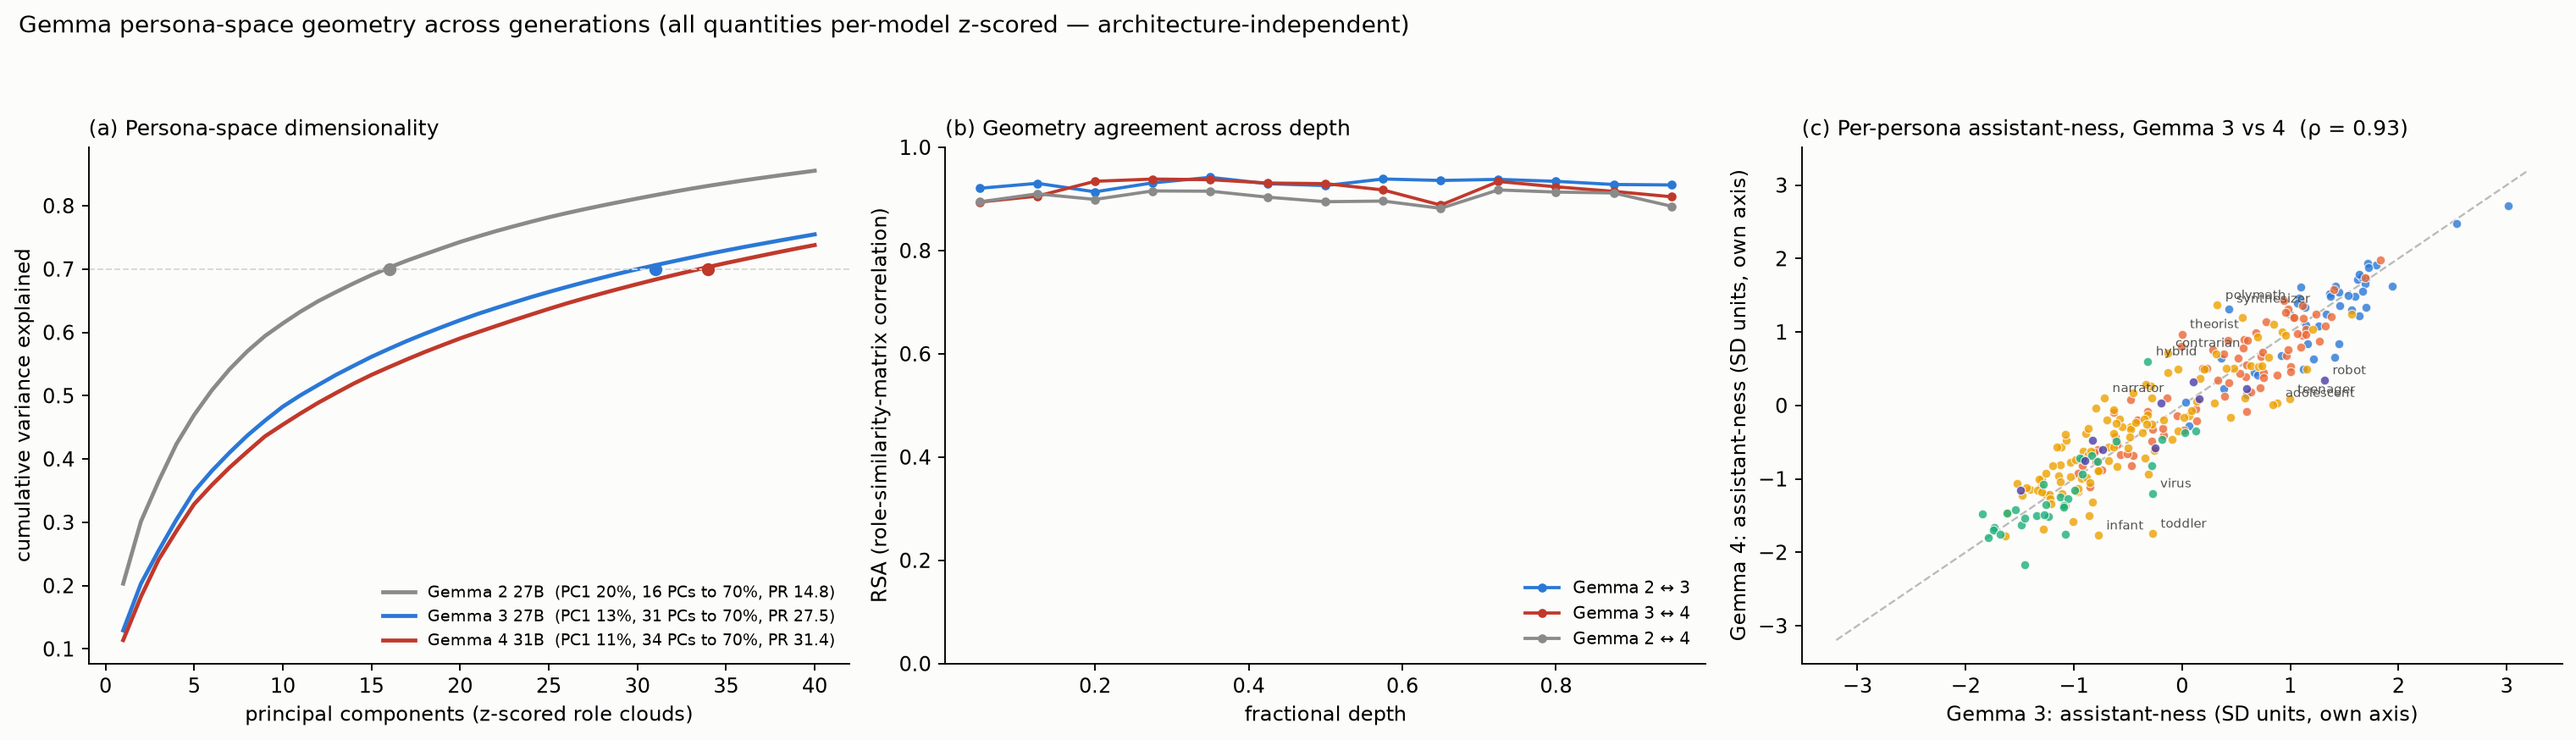
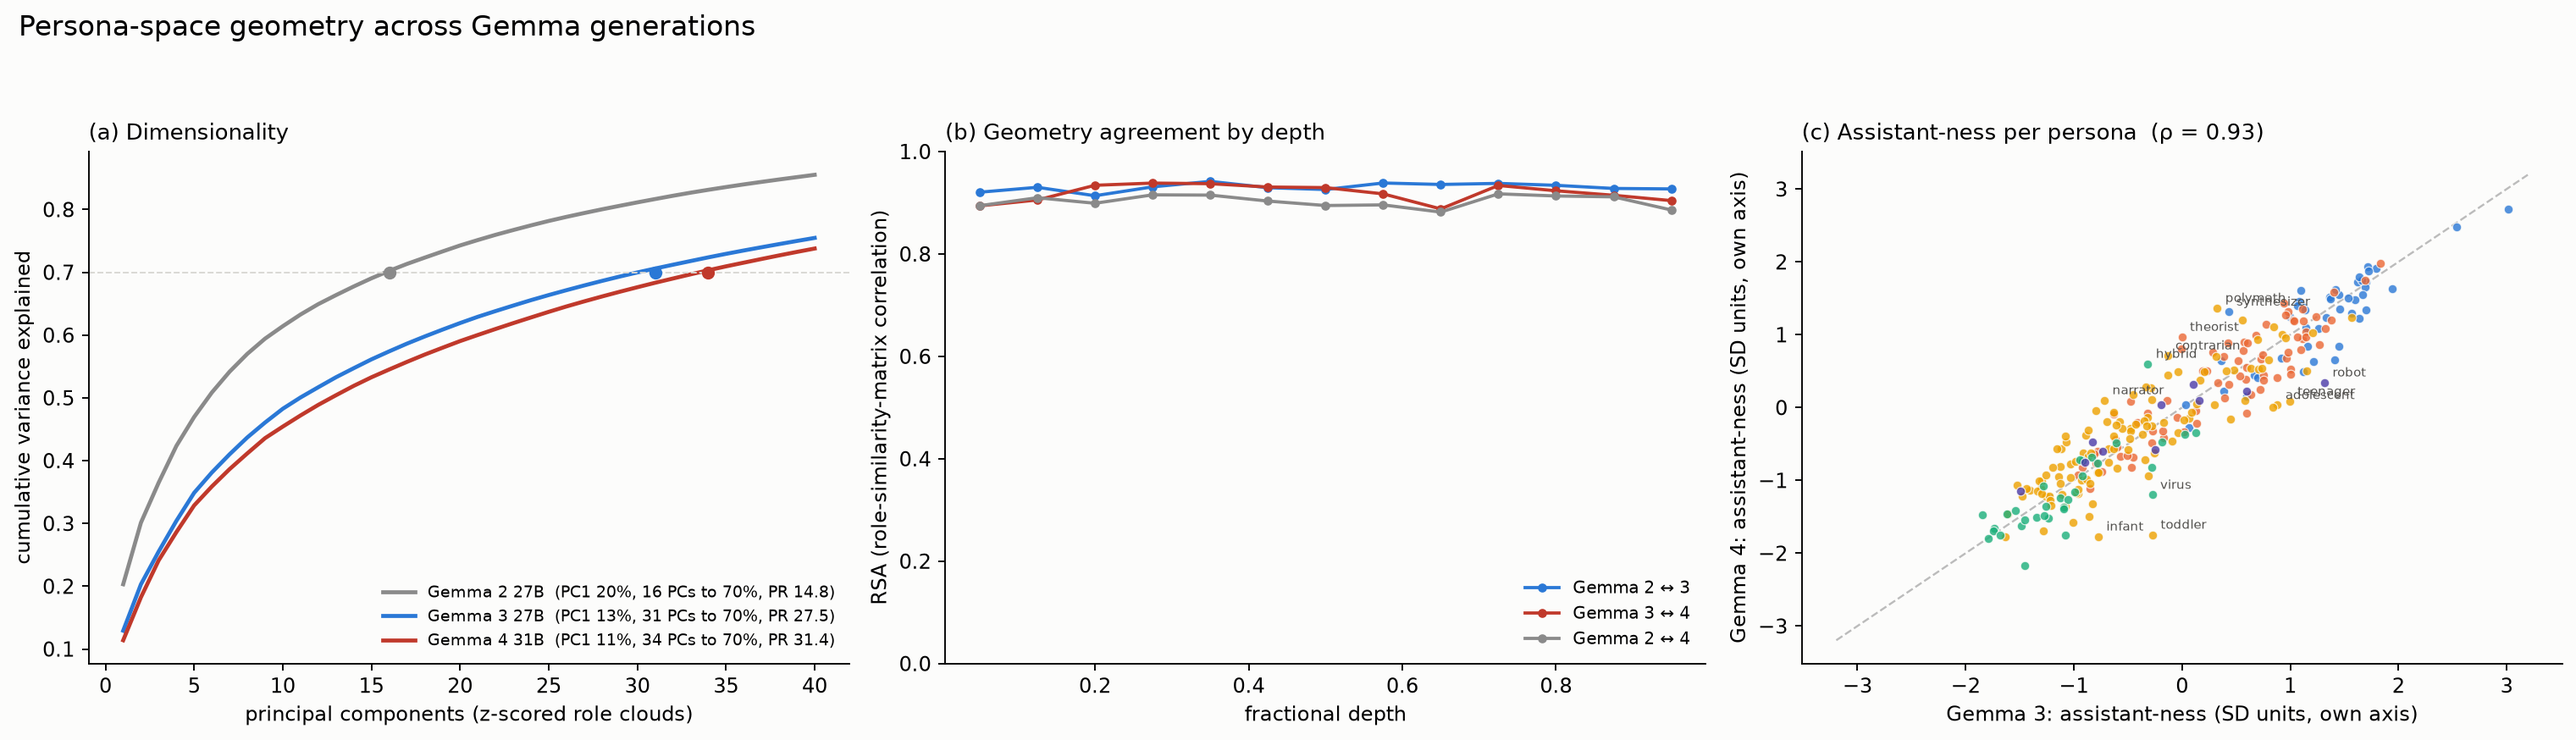
Simpler figure titles; correct default-vs-assistant-role wording (default at 44th/50th pct, assistant role rank 121/93 of 275)

diff --git a/scripts/gemma_generations_analysis.py b/scripts/gemma_generations_analysis.py
@@ -245,10 +245,9 @@ def main():
         P = M[f"{a}->{b}"]
         ax.set_xlabel("PC2 of the aligned union", fontsize=10)
         ax.set_ylabel("PC1 of the aligned union  →  more assistant-like", fontsize=10)
-        ax.set_title(f"({'ab'[row]}) {LABEL[a]} ● → {LABEL[b]} ◇  (optimal alignment of top-{args.k} PC scores)\n"
-                     f"Procrustes disparity {P['procrustes_disparity']:.2f} — {P['procrustes_disparity']:.0%} of layout variance is "
-                     f"generation-specific;  RSA {P['rsa']:.2f}, axis-ordering ρ {P['axis_ordering_spearman']:.2f}",
-                     fontsize=10, loc="left")
+        ax.set_title(f"({'ab'[row]}) {LABEL[a]} ● → {LABEL[b]} ◇\n"
+                     f"{P['procrustes_disparity']:.0%} of the persona layout changed",
+                     fontsize=11, loc="left")
         ax2 = axes[row][1]; ax2.set_facecolor("#fcfcfb")
         show = list(order[::-1][:20]) + [None] + list(order[:6][::-1])
         y = 0; ys, labels, colsb, vals = [], [], [], []
@@ -263,15 +262,13 @@ def main():
         ax2.axvline(M[f"{a}->{b}"]["default_resid"], color="#c0392b", lw=1.2, ls=":")
         ax2.text(M[f"{a}->{b}"]["default_resid"], ys[-1] - 1.6, " default persona", fontsize=8, color="#c0392b")
         ax2.set_xlabel("residual displacement after alignment", fontsize=9)
-        ax2.set_title(f"({'cd'[row]}) Most / least moved personas, {LABEL[a].split()[1]}→{LABEL[b].split()[1]}", fontsize=10, loc="left")
+        ax2.set_title(f"({'cd'[row]}) Most and least moved personas", fontsize=11, loc="left")
     for ax in axes.ravel():
         for sp in ("top", "right"):
             ax.spines[sp].set_visible(False)
     handles = [Line2D([0], [0], marker="o", color="w", markerfacecolor=c, markersize=8, label=cat) for cat, c in COLORS.items()]
     fig.legend(handles=handles, loc="lower center", ncol=5, frameon=False, fontsize=9, bbox_to_anchor=(0.5, -0.005))
-    fig.suptitle("How much did personas move between Gemma generations? (different architectures — compared after per-model\n"
-                 "z-scoring, top-k PCA and optimal rotation; arrows are lower bounds on relative persona movement)",
-                 fontsize=12.5, x=0.01, ha="left")
+    fig.suptitle("Persona movement between Gemma generations", fontsize=14, x=0.01, ha="left")
     fig.tight_layout(rect=(0, 0.015, 1, 0.95))
     fig.savefig(figdir / "gemma_persona_movement.png", dpi=170, bbox_inches="tight", facecolor=fig.get_facecolor())
     plt.close(fig)
@@ -289,13 +286,13 @@ def main():
         ax.scatter([M[f"{k}_zPCA"]["n_pcs_70"]], [0.70], color=colors3[k], zorder=5, s=30)
     ax.axhline(0.70, color="#d9d8d3", lw=0.8, ls="--")
     ax.set(xlabel="principal components (z-scored role clouds)", ylabel="cumulative variance explained")
-    ax.set_title("(a) Persona-space dimensionality", fontsize=10.5, loc="left")
+    ax.set_title("(a) Dimensionality", fontsize=11, loc="left")
     ax.legend(fontsize=8, frameon=False, loc="lower right")
 
     for key, col, lab in [("g2->g3", "#2a78d6", "Gemma 2 ↔ 3"), ("g3->g4", "#c0392b", "Gemma 3 ↔ 4"), ("g2->g4", "#8a8a8a", "Gemma 2 ↔ 4")]:
         ax2.plot(M["rsa_by_depth"]["depths"], M["rsa_by_depth"][key], marker="o", ms=3.5, color=col, lw=1.6, label=lab)
     ax2.set(xlabel="fractional depth", ylabel="RSA (role-similarity-matrix correlation)", ylim=(0, 1))
-    ax2.set_title("(b) Geometry agreement across depth", fontsize=10.5, loc="left")
+    ax2.set_title("(b) Geometry agreement by depth", fontsize=11, loc="left")
     ax2.legend(fontsize=8.5, frameon=False, loc="lower right")
 
     x3, y3 = spec["g3"]["proj_z"], spec["g4"]["proj_z"]
@@ -309,12 +306,11 @@ def main():
         ax3.annotate(shared[i], (x3[i], y3[i]), xytext=(4, 3), textcoords="offset points", fontsize=6.5, color="#52514e")
     rho = M["g3->g4"]["axis_ordering_spearman"]
     ax3.set(xlabel="Gemma 3: assistant-ness (SD units, own axis)", ylabel="Gemma 4: assistant-ness (SD units, own axis)")
-    ax3.set_title(f"(c) Per-persona assistant-ness, Gemma 3 vs 4  (ρ = {rho:.2f})", fontsize=10.5, loc="left")
+    ax3.set_title(f"(c) Assistant-ness per persona  (ρ = {rho:.2f})", fontsize=11, loc="left")
     for a_ in (ax, ax2, ax3):
         for sp in ("top", "right"):
             a_.spines[sp].set_visible(False)
-    fig.suptitle("Gemma persona-space geometry across generations (all quantities per-model z-scored — architecture-independent)",
-                 fontsize=12, x=0.01, ha="left")
+    fig.suptitle("Persona-space geometry across Gemma generations", fontsize=14, x=0.01, ha="left")
     fig.tight_layout(rect=(0, 0, 1, 0.93))
     fig.savefig(figdir / "gemma_geometry_dimensionality.png", dpi=170, bbox_inches="tight", facecolor=fig.get_facecolor())
     plt.close(fig)
@@ -339,7 +335,7 @@ def main():
             ax.annotate(sroles[i], (xs[i], ys_[i]), xytext=(4, -8), textcoords="offset points", fontsize=6.5, color="#52514e")
         ax.set_xlabel("Gemma 3: fraction fully role-playing (judge score 3)", fontsize=9.5)
         ax.set_ylabel("Gemma 4: fraction fully role-playing", fontsize=9.5)
-        ax.set_title("(a) Full role-play rate per persona — below the diagonal =\nGemma 4 more resistant to inhabiting that persona", fontsize=10, loc="left")
+        ax.set_title("(a) Full role-play rate per persona", fontsize=11, loc="left")
         handles = [Line2D([0], [0], marker="o", color="w", markerfacecolor=c, markersize=8, label=cat) for cat, c in COLORS.items()]
         handles.append(Line2D([0], [0], marker="o", color="w", markerfacecolor="none", markeredgecolor="#c0392b", markersize=9, label="malevolent subset"))
         ax.legend(handles=handles, loc="upper left", frameon=False, fontsize=8)
@@ -356,12 +352,11 @@ def main():
             ax2.text(rel[k_] * 100 + off, len(cat_order) - 1 - k_, f"{rel[k_]:+.0%}", va="center",
                      ha="right" if rel[k_] < 0 else "left", fontsize=9)
         ax2.set_xlabel("relative change in full-role-play rate, Gemma 4 vs 3 (%)", fontsize=9.5)
-        ax2.set_title(f"(b) Role-play willingness by category\n(overall score-3 rate: {M['overall_score3']['g3']:.1%} → {M['overall_score3']['g4']:.1%})", fontsize=10, loc="left")
+        ax2.set_title(f"(b) Change by category  (overall: {M['overall_score3']['g3']:.0%} → {M['overall_score3']['g4']:.0%})", fontsize=11, loc="left")
         for a_ in (ax, ax2):
             for sp in ("top", "right"):
                 a_.spines[sp].set_visible(False)
-        fig.suptitle("Role-play willingness: Gemma 3 vs Gemma 4 (identical protocol, judge = gpt-4.1-mini)",
-                     fontsize=12.5, x=0.01, ha="left")
+        fig.suptitle("Role-play willingness: Gemma 3 vs Gemma 4", fontsize=14, x=0.01, ha="left")
         fig.tight_layout(rect=(0, 0, 1, 0.93))
         fig.savefig(figdir / "gemma_roleplay_behavior.png", dpi=170, bbox_inches="tight", facecolor=fig.get_facecolor())
         plt.close(fig)

diff --git a/results/GEMMA_GENERATIONS.md b/results/GEMMA_GENERATIONS.md
@@ -104,9 +104,12 @@ for comparability, which gives 0.11 for the same SPP pair.)
 
 ## What moved, and what didn't (`gemma_persona_movement.png`)
 
-After optimal alignment, the **default persona moved exactly the median role's distance in both
-transitions** (residual 0.019 = median 0.019) — no generation specifically relocated the Assistant.
-The *least*-moved personas are the assistant/professional core: teacher, collaborator, consultant,
+After optimal alignment, the **default persona** (the model under neutral system prompts — a separate
+vector, not one of the 275 role vectors) **moved a typical amount in both transitions**: its residual
+sits at the 44th (2→3) and 50th (3→4) percentile of the role-residual distribution. The prompted
+"assistant" *role* is likewise mid-pack (rank 121/275 and 93/275 least-moved) — so no generation
+specifically relocated or specifically preserved the Assistant; it drifted like an ordinary persona.
+The *least*-moved personas are the professional core: teacher, collaborator, consultant,
 doctor, debugger, auditor, programmer, economist, strategist. The *most*-moved are the informal,
 liminal, low-status-human periphery:
 
